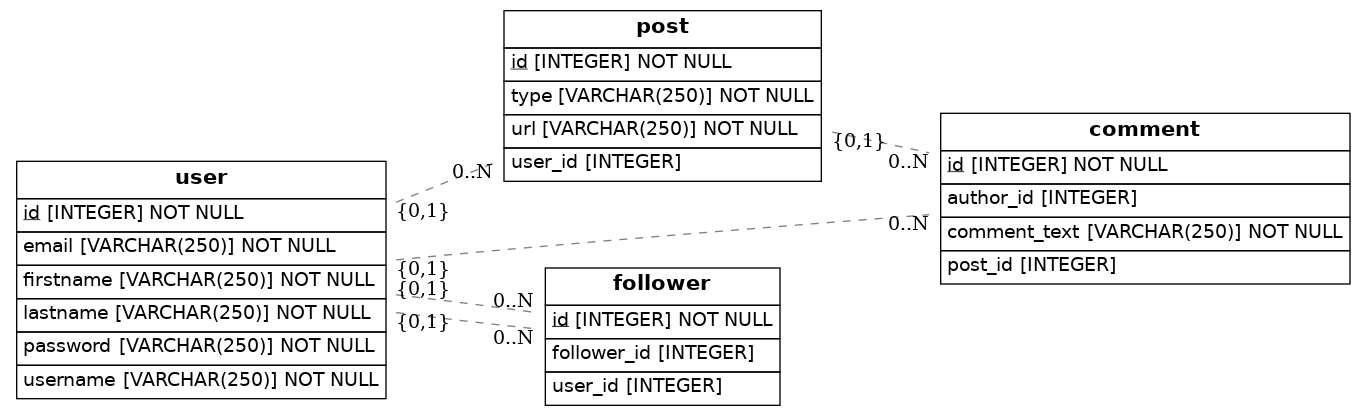
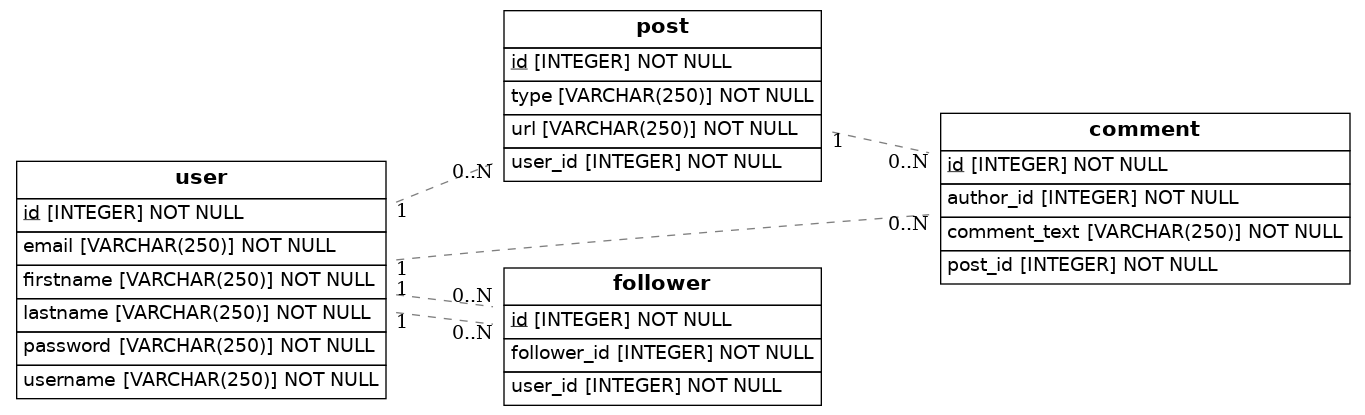
nullable=false

diff --git a/src/models.py b/src/models.py
@@ -19,7 +19,7 @@ class User(Base):
 class Post(Base):
     __tablename__ = 'post'
     id = Column(Integer, primary_key=True)
-    user_id = Column(Integer, ForeignKey('user.id'))
+    user_id = Column(Integer, ForeignKey('user.id'), nullable=False)
     type = Column(String(250), nullable=False)
     url = Column(String(250), nullable=False)
 
@@ -27,14 +27,14 @@ class Comment(Base):
     __tablename__ = 'comment'
     id = Column(Integer, primary_key=True)
     comment_text = Column(String(250), nullable=False)
-    author_id = Column(Integer, ForeignKey('user.id'))
-    post_id = Column(Integer, ForeignKey('post.id'))
+    author_id = Column(Integer, ForeignKey('user.id'), nullable=False)
+    post_id = Column(Integer, ForeignKey('post.id'), nullable=False)
 
 class Follower(Base):
     __tablename__ = 'follower'
     id = Column(Integer, primary_key=True)
-    user_id = Column(Integer, ForeignKey('user.id'))
-    follower_id = Column(Integer, ForeignKey('user.id'))
+    user_id = Column(Integer, ForeignKey('user.id'), nullable=False)
+    follower_id = Column(Integer, ForeignKey('user.id'), nullable=False)
 
 
 ## Draw from SQLAlchemy base
